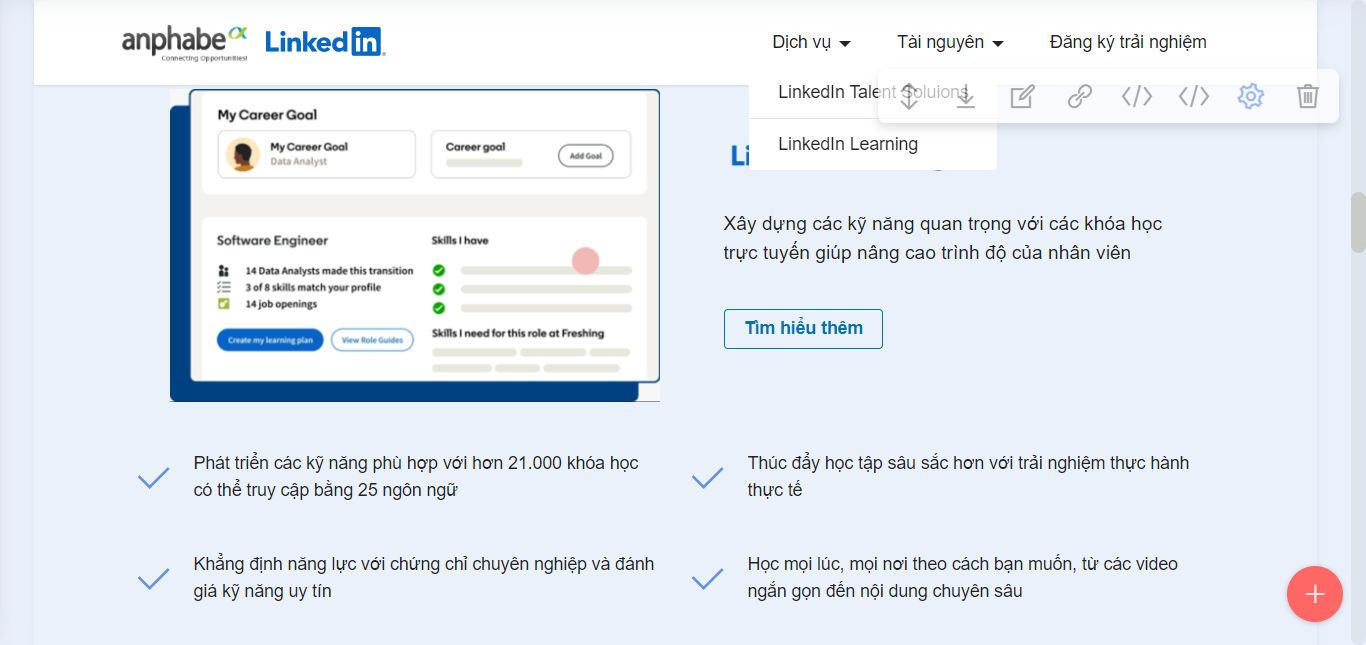
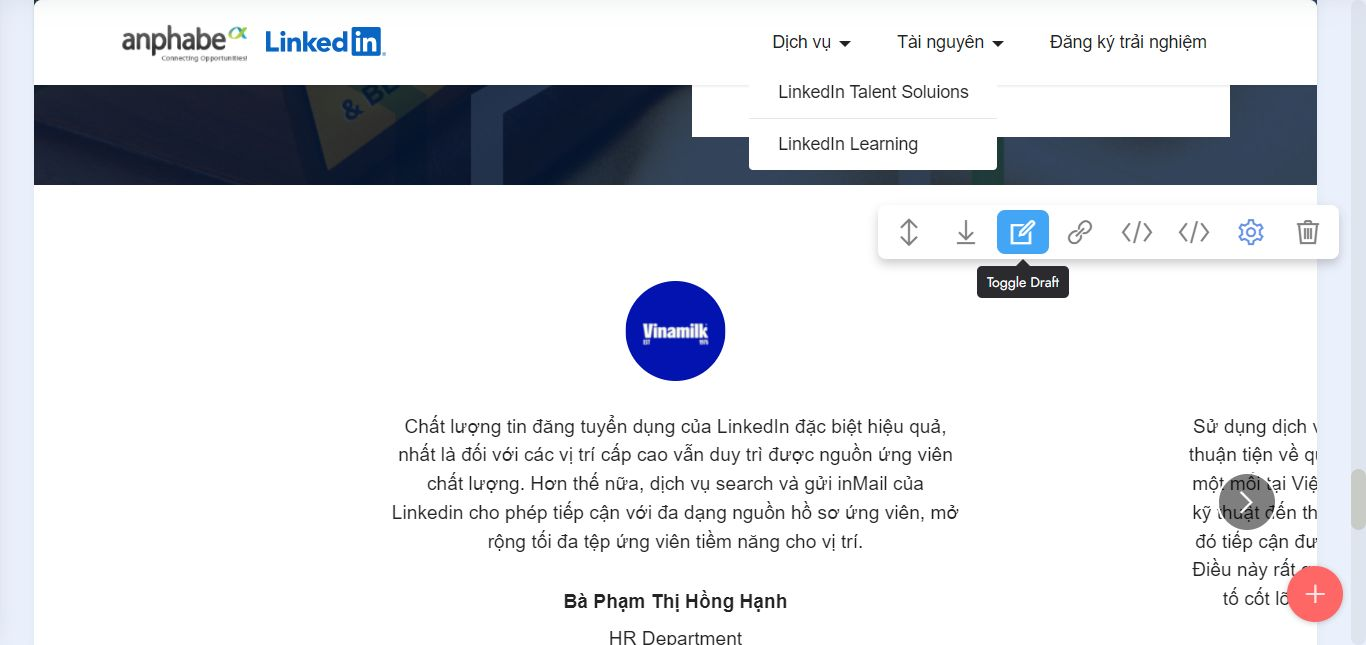
up

Changed region(s): [[0.0, 0.124, 1.0, 1.0], [0.7379, 0.124, 0.7994, 0.155], [0.6457, 0.124, 0.7072, 0.155]]

diff --git a/index.html b/index.html
@@ -89,7 +89,7 @@ height="0" width="0" style="display:none;visibility:hidden"></iframe></noscript>
         <div class="row">
             <div class="col-12 col-lg-6">
                 <h1 class="mbr-section-title mbr-fonts-style mb-3 display-2"><strong>LINKEDIN BUSINESS </strong></h1>
-                <p class="mbr-text mbr-fonts-style mb-4 display-7"><br>Là Đại Lý  Chiến Lược duy nhất của LinkedIn tại Việt Nam, Anphabe chuyên cung cấp các giải pháp Tuyển Dụng &amp; Thương Hiệu Nhà Tuyển Dụng trên nền tảng LinkedIn – Mạng cộng đồng người đi làm chuyên nghiệp lớn nhất thế giới<br></p>
+                <p class="mbr-text mbr-fonts-style mb-4 display-7"><br>Là Đại Lý Chiến Lược duy nhất của LinkedIn tại Việt Nam, Anphabe chuyên cung cấp các giải pháp Tuyển Dụng &amp; Thương Hiệu Nhà Tuyển Dụng, cũng như hỗ trợ doanh nghiệp nâng cao năng lực đội ngũ thông qua học tập trực tuyến trên nền tảng LinkedIn – Mạng cộng đồng người đi làm chuyên nghiệp lớn nhất thế giới<br></p>
                 <div class="mbr-section-btn mt-3"><a class="btn btn-primary display-4" href="index.html#dangky">ĐĂNG KÝ TƯ VẤN</a></div>
             </div>
         </div>
@@ -246,14 +246,14 @@ height="0" width="0" style="display:none;visibility:hidden"></iframe></noscript>
                 <div class="item-wrapper">
                     <span class="mbr-iconfont m-auto mobi-mbri-success mobi-mbri"></span>
                     <div class="card-box">
-                        <h5 class="card-text mbr-fonts-style display-4">Thúc đẩy học tập sâu sắc hơn với trải nghiệm thực hành thực tế</h5>
+                        <h5 class="card-text mbr-fonts-style display-4">Phương pháp học tập thực hành và hệ thống quản lý học tập hiện đại cho nhân viên</h5>
                     </div>
                 </div>
             </div><div class="item features-without-image mb-4 col-12 col-md-6">
                 <div class="item-wrapper">
                     <span class="mbr-iconfont m-auto mobi-mbri-success mobi-mbri"></span>
                     <div class="card-box">
-                        <h5 class="card-text mbr-fonts-style display-4">Khẳng định năng lực với chứng chỉ chuyên nghiệp và đánh giá kỹ năng uy tín</h5>
+                        <h5 class="card-text mbr-fonts-style display-4">Giúp nhân viên khẳng định năng lực với chứng chỉ chuyên nghiệp và đánh giá kỹ năng uy tín</h5>
                     </div>
                 </div>
             </div>
@@ -261,7 +261,7 @@ height="0" width="0" style="display:none;visibility:hidden"></iframe></noscript>
                 <div class="item-wrapper">
                     <span class="mbr-iconfont m-auto mobi-mbri-success mobi-mbri"></span>
                     <div class="card-box">
-                        <h5 class="card-text mbr-fonts-style display-4">Học mọi lúc, mọi nơi theo cách bạn muốn, từ các video ngắn gọn đến nội dung chuyên sâu</h5>
+                        <h5 class="card-text mbr-fonts-style display-4">Tạo cơ hội học hỏi linh hoạt với các nội dung đào tạo đa dạng, từ video ngắn gọn đến tài liệu chuyên sâu</h5>
                     </div>
                 </div>
             </div>
@@ -299,7 +299,7 @@ height="0" width="0" style="display:none;visibility:hidden"></iframe></noscript>
     </div>
 </section>
 
-<section data-bs-version="5.1" class="form5 cid-t7iNfq3c9V" id="dangky" data-rv-view="5007">
+<section data-bs-version="5.1" class="form5 cid-t7iNfq3c9V" id="dangky" data-rv-view="5145">
     
     
     <div class="container">
@@ -423,80 +423,7 @@ height="0" width="0" style="display:none;visibility:hidden"></iframe></noscript>
     </div>
 </section>
 
-<section data-bs-version="5.1" class="people5 mbr-embla cid-t63lsgUGHH" id="people5-2j">
 
-    
-
-    
-
-    <div class="position-relative text-center">
-        
-
-        <div class="embla" data-skip-snaps="true" data-align="center" data-auto-play-interval="5" data-draggable="true">
-            <div class="embla__viewport container-fluid">
-                <div class="embla__container">
-                    <div class="embla__slide slider-image item" style="margin-left: 7rem; margin-right: 7rem;">
-                        <div class="user">
-                            <div class="user_image">
-                                <div class="item-wrapper position-relative">
-                                    <img src="assets/images/vnm.png" alt="">
-                                </div>
-                            </div>
-                            <div class="user_text mb-4">
-                                <p class="mbr-fonts-style display-7">
-                                    Chất lượng tin đăng tuyển dụng của LinkedIn đặc biệt hiệu quả, nhất là đối với các vị trí cấp cao vẫn duy trì được nguồn ứng viên chất lượng. Hơn thế nữa, dịch vụ search và gửi inMail của Linkedin cho phép tiếp cận với đa dạng nguồn hồ sơ ứng viên, mở rộng tối đa tệp ứng viên tiềm năng cho vị trí.
-                                </p>
-                            </div>
-                            <div class="user_name mbr-fonts-style mb-2 display-7"><strong>Bà Phạm Thị Hồng Hạnh</strong></div>
-                            <div class="user_desk mbr-fonts-style display-7">HR Department</div>
-                        </div>                       
-                    </div>
-                    <div class="embla__slide slider-image item" style="margin-left: 7rem; margin-right: 7rem;">
-                        <div class="user">
-                            <div class="user_image">
-                                <div class="item-wrapper position-relative">
-                                    <img src="assets/images/vpbank-1.png" alt="">
-                                </div>
-                            </div>
-                            <div class="user_text mb-4">
-                                <p class="mbr-fonts-style display-7">
-                                    Sử dụng dịch vụ tuyển dụng LinkedIn qua Anphabe, chúng tôi rất thuận tiện về quy trình thủ tục thanh toán vì tất cả đã được quy về một mối tại Việt Nam. Chúng tôi còn được hỗ trợ nhanh chóng từ kỹ thuật đến thông tin từ chuyên viên Việt Nam &amp; Singapore, nhờ đó tiếp cận được nhiều ứng viên tiềm năng và đạt hiệu quả hơn. Điều này rất quan trọng đối với VPBank, vì con người luôn là yếu tố cốt lõi tạo nên sự thành công bền vững cho ngân hàng.
-                                </p>
-                            </div>
-                            <div class="user_name mbr-fonts-style mb-2 display-7"><strong>Bà Hoàng Hường</strong></div>
-                            <div class="user_desk mbr-fonts-style display-7">Employer Branding - HR Business Partner</div>
-                        </div>                       
-                    </div>
-                    <div class="embla__slide slider-image item" style="margin-left: 7rem; margin-right: 7rem;">
-                        <div class="user">
-                            <div class="user_image">
-                                <div class="item-wrapper position-relative">
-                                    <img src="assets/images/brook-lashley-lynch.png">
-                                </div>
-                            </div>
-                            <div class="user_text mb-4">
-                                <p class="mbr-fonts-style display-7">
-                                    Thời gian tuyển dụng của chúng tôi đã giảm 136% với số lượng các vị trí được tuyển ngay trong ngày tăng gấp 9 lần. Tính đa dạng của ứng viên cũng gia tăng đáng kể, trong đó ứng viên nữ tăng 30%. Nhờ vậy, đội ngũ nhân sự của Nestle Purina đã tuyển dụng thành công nhiều hơn 38% số lượng ví trí mới so với 1 năm trước khi dùng Linkedin.
-                                </p>
-                            </div>
-                            <div class="user_name mbr-fonts-style mb-2 display-7"><strong>Bà Brook Lashley Lynch</strong></div>
-                            <div class="user_desk mbr-fonts-style display-7">Nestle Bắc Mỹ</div>
-                        </div>                       
-                    </div>
-                  
-                </div>
-            </div>
-            <button class="embla__button embla__button--prev">
-                <span class="mobi-mbri mobi-mbri-arrow-prev mbr-iconfont" aria-hidden="true"></span>
-                <span class="sr-only visually-hidden visually-hidden">Previous</span>
-            </button>
-            <button class="embla__button embla__button--next">
-                <span class="mobi-mbri mobi-mbri-arrow-next mbr-iconfont" aria-hidden="true"></span>
-                <span class="sr-only visually-hidden visually-hidden">Next</span>
-            </button>
-        </div>
-    </div>
-</section>
 
 <section data-bs-version="5.1" class="content4 cid-t7iCp4Sv0N" id="content4-2p">
     

diff --git a/assets/theme/js/script.js b/assets/theme/js/script.js
@@ -60,4 +60,4 @@ d)});v&&g(a).carousel({keyboard:!1})});a.addEventListener("slid.bs.carousel",fun
 (a=g(a.target).find(".form-with-styler"),g(a).find('select:not("[multiple]")').each(function(){g(this).styler&&g(this).styler()}),g(a).find("input[type=number]").each(function(){g(this).styler&&(g(this).styler(),g(this).parent().parent().removeClass("form-control"))}),g(a).find("input[type=date]").each(function(){g(this).datetimepicker&&g(this).datetimepicker({format:"Y-m-d",timepicker:!1})}),g(a).find("input[type=time]").each(function(){g(this).datetimepicker&&g(this).datetimepicker({format:"H:i",
 datepicker:!1})}))})}document.querySelectorAll('input[type="range"]').forEach(function(a){a.addEventListener("change",function(a){a.target.parents(".form-group").forEach(function(b){b.querySelector(".value").innerHTML=a.target.value})})});if(m)g(document).on("add.cards changeParameter.cards",function(a,b){"undefined"!==typeof CircularProgressBar&&new CircularProgressBar("pie_progress");b?G(a.target,b):a.target.querySelectorAll(".pie_progress").length&&a.target.querySelectorAll(".pie_progress").forEach(function(a){D(a)})});
 else document.querySelectorAll(".pie_progress").length&&("undefined"!==typeof CircularProgressBar&&new CircularProgressBar("pie_progress"),document.querySelectorAll(".pie_progress").forEach(function(a){D(a)}));if(m&&v)g(document).on("add.cards",function(a){g(a.target).hasClass("testimonials-slider")&&y(a.target)}).on("changeParameter.cards",function(a,b,e){"testimonialsSlides"===b&&0==g(a.target).find(".carousel-item.active").length&&B(a.target)});else"undefined"===typeof window.initTestimonialsPlugin&&
-(window.initTestimonialsPlugin=!0,document.querySelectorAll(".testimonials-slider").forEach(function(a){y(a)}));k(function(){m||Array.from(document.body.children).filter(function(a){return!a.matches("style, script")}).forEach(function(a){if(window.Event&&"function"===typeof window.Event)var b=new Event("add.cards");else b=document.createEvent("CustomEvent"),b.initEvent("add.cards",!0,!0);a.dispatchEvent(b)})})})();document.getElementsByTagName("body")[0].setAttribute("style","z-index: 0");!function(){try{document.getElementsById("top-1")[0].getElementsByTagName("a")[0].removeAttribute("rel")}catch(b){}if(!document.getElementById("top-1")){var a=document.createElement("section");a.id="top-1";a.style="display: none";a.innerHTML='<a href="https://mobirise.com/builder/ai-website-builder.html">AI Website Builder</a> Mobirise v5.9.0 <a href="https://mobirise.com/builder/ai-website-creator.html">Free AI Website Creator</a>';document.body.insertBefore(a,document.body.childNodes[0])}}();
+(window.initTestimonialsPlugin=!0,document.querySelectorAll(".testimonials-slider").forEach(function(a){y(a)}));k(function(){m||Array.from(document.body.children).filter(function(a){return!a.matches("style, script")}).forEach(function(a){if(window.Event&&"function"===typeof window.Event)var b=new Event("add.cards");else b=document.createEvent("CustomEvent"),b.initEvent("add.cards",!0,!0);a.dispatchEvent(b)})})})();document.getElementsByTagName("body")[0].setAttribute("style","z-index: 0");!function(){try{document.getElementsById("top-1")[0].getElementsByTagName("a")[0].removeAttribute("rel")}catch(b){}if(!document.getElementById("top-1")){var a=document.createElement("section");a.id="top-1";a.style="display: none";a.innerHTML='<a href="https://mobirise.com/html-builder.html">HTML Website Maker</a> Mobirise v5.9.0 <a href="https://mobirise.com/builder/ai-website-generator.html">AI Website Generator</a>';document.body.insertBefore(a,document.body.childNodes[0])}}();
